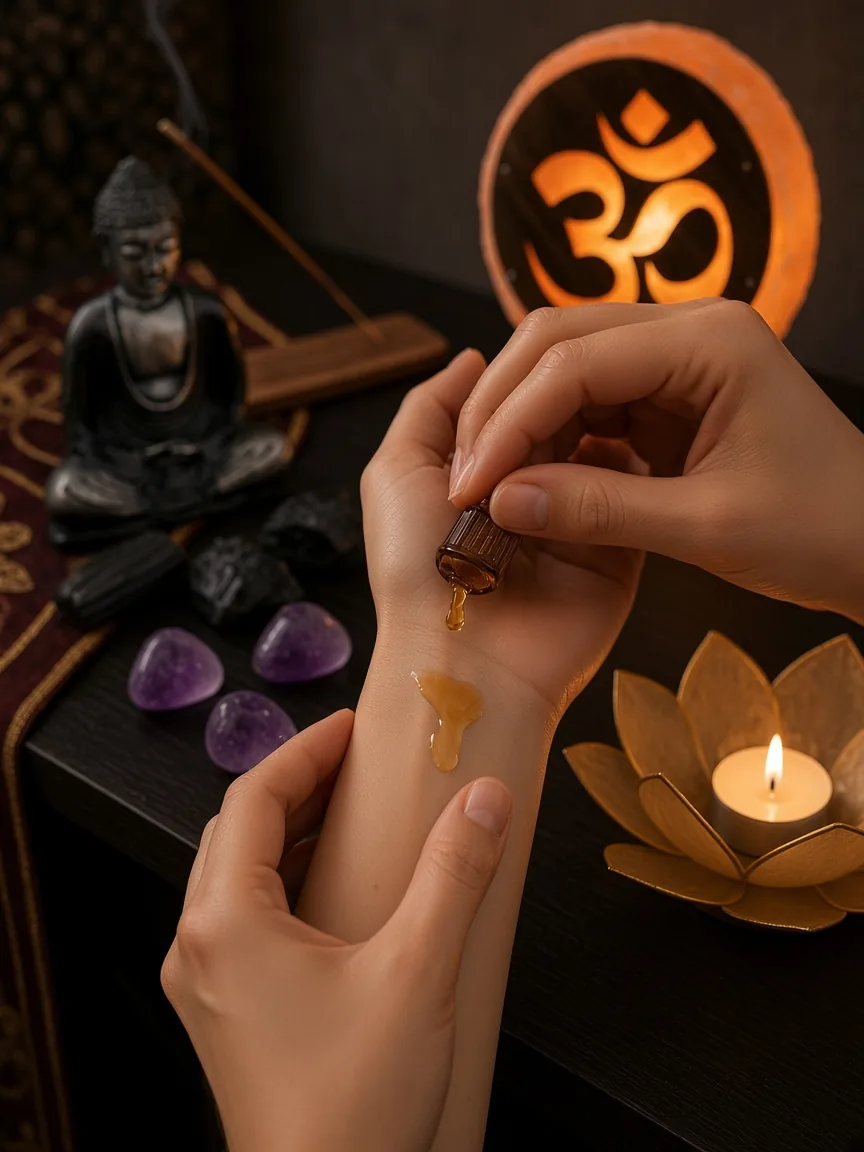
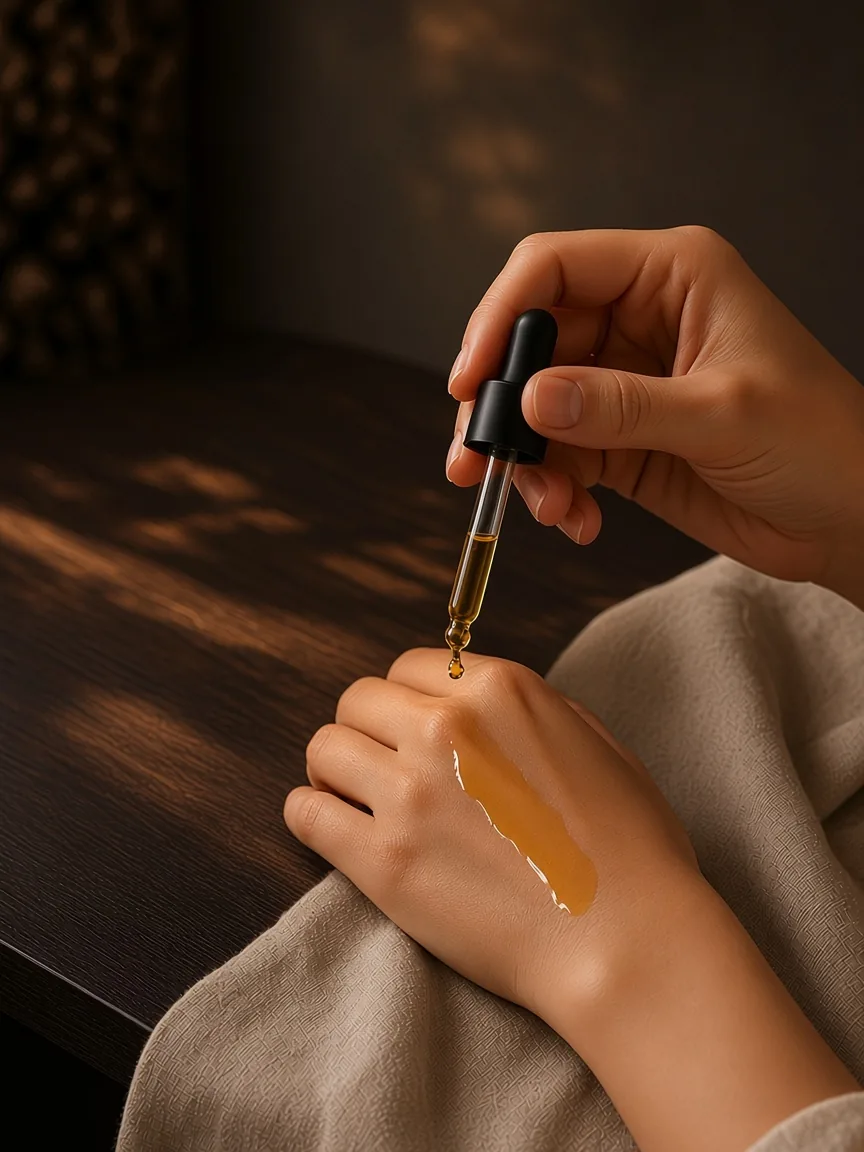
Aggiorna home-officina: nuove scene Olio e Bagno, layout desktop
Corrette le scene d'atmosfera di Olio e Bagno (contagocce plausibile, sali versati da una ciotola, niente oggetti del rituale). Su desktop la sezione è a due colonne; su mobile le card prodotto scorrono in due visibili più una che si intravede.

diff --git a/home-officina/index.html b/home-officina/index.html
@@ -2283,75 +2283,75 @@ Vedi tutto
   <div class="bz-sh">
     <h2 id="officina-title" class="bz-ds-reveal is-in">L'officina del <em>corpo</em></h2>
   </div>
-  <div class="bz-pills" role="tablist" aria-label="Capitoli dell'officina del corpo">
-    <button type="button" role="tab" id="officina-tab-olio" aria-controls="officina-panel" aria-selected="true" tabindex="0">Olio</button>
-    <button type="button" role="tab" id="officina-tab-bagno" aria-controls="officina-panel" aria-selected="false" tabindex="-1">Bagno</button>
-    <button type="button" role="tab" id="officina-tab-candela" aria-controls="officina-panel" aria-selected="false" tabindex="-1">Candela</button>
-    <button type="button" role="tab" id="officina-tab-sapone" aria-controls="officina-panel" aria-selected="false" tabindex="-1">Sapone</button>
-    <button type="button" role="tab" id="officina-tab-tisana" aria-controls="officina-panel" aria-selected="false" tabindex="-1">Tisana</button>
-  </div>
-  <div id="officina-panel" role="tabpanel" aria-labelledby="officina-tab-olio" tabindex="0">
-    <div class="bz-officina-breakout">
+  <div class="bz-officina-layout">
+    <div class="bz-pills" role="tablist" aria-label="Capitoli dell'officina del corpo">
+      <button type="button" role="tab" id="officina-tab-olio" aria-controls="officina-panel" aria-selected="true" tabindex="0">Olio</button>
+      <button type="button" role="tab" id="officina-tab-bagno" aria-controls="officina-panel" aria-selected="false" tabindex="-1">Bagno</button>
+      <button type="button" role="tab" id="officina-tab-candela" aria-controls="officina-panel" aria-selected="false" tabindex="-1">Candela</button>
+      <button type="button" role="tab" id="officina-tab-sapone" aria-controls="officina-panel" aria-selected="false" tabindex="-1">Sapone</button>
+      <button type="button" role="tab" id="officina-tab-tisana" aria-controls="officina-panel" aria-selected="false" tabindex="-1">Tisana</button>
+    </div>
+    <div id="officina-panel" role="tabpanel" aria-labelledby="officina-tab-olio" tabindex="0">
       <figure class="bz-officina-stage">
-        <img class="bz-officina-scene" src="assets/officina-scena-olio.webp" alt="Una mano applica un olio sul polso accanto a una candela" loading="lazy" decoding="async" draggable="false">
+        <img class="bz-officina-scene" src="assets/officina-scena-olio.webp" alt="Un contagocce lascia cadere una goccia d'olio sul dorso di una mano" loading="lazy" decoding="async" draggable="false">
         <figcaption class="bz-officina-cap">
           <h3>Olio</h3>
           <p>Si lascia sui polsi, e resta sulla pelle per tutta la sera.</p>
         </figcaption>
       </figure>
+      <div class="bz-officina-prods">
+        <article class="product bz-product-tile has-nome-vetrina bz-product-tile--vertical">
+          <a class="bz-product-tile__link" href="https://benesserezen.shop/products/olio-profumato-ayurveda-ambra">
+            <div class="bz-product-tile__media">
+              <img src="assets/prod-olio-ambra.webp" alt="Roll-on Ambra" width="600" height="600" loading="lazy" decoding="async">
+            </div>
+            <h3 class="bz-product-tile__title">Roll-on Ambra</h3>
+            <p class="bz-product-tile__sub">profumo ayurvedico</p>
+          </a>
+          <div class="product-bottom bz-product-tile__bottom">
+            <div class="price">16,50&nbsp;€</div>
+            <button class="add" type="button" data-bz-add="54793126642002" aria-label="Aggiungi al carrello: Roll-on Ambra">
+              <svg viewBox="0 -960 960 960" class="" aria-hidden="true" focusable="false" fill="currentColor"><path d="M457.31-457.31H220v-45.38h237.31V-740h45.38v237.31H740v45.38H502.69V-220h-45.38v-237.31Z"></path></svg>
+            </button>
+          </div>
+        </article>
+        <article class="product bz-product-tile has-nome-vetrina bz-product-tile--vertical">
+          <a class="bz-product-tile__link" href="https://benesserezen.shop/products/olio-profumato-ayurveda-vaniglia">
+            <div class="bz-product-tile__media">
+              <img src="assets/prod-olio-vaniglia.webp" alt="Roll-on Vaniglia" width="600" height="600" loading="lazy" decoding="async">
+            </div>
+            <h3 class="bz-product-tile__title">Roll-on Vaniglia</h3>
+            <p class="bz-product-tile__sub">profumo ayurvedico</p>
+          </a>
+          <div class="product-bottom bz-product-tile__bottom">
+            <div class="price">16,50&nbsp;€</div>
+            <button class="add" type="button" data-bz-add="54793125986642" aria-label="Aggiungi al carrello: Roll-on Vaniglia">
+              <svg viewBox="0 -960 960 960" class="" aria-hidden="true" focusable="false" fill="currentColor"><path d="M457.31-457.31H220v-45.38h237.31V-740h45.38v237.31H740v45.38H502.69V-220h-45.38v-237.31Z"></path></svg>
+            </button>
+          </div>
+        </article>
+        <article class="product bz-product-tile has-nome-vetrina bz-product-tile--vertical">
+          <a class="bz-product-tile__link" href="https://benesserezen.shop/products/olio-profumato-naturale-sandalwood-10-ml">
+            <div class="bz-product-tile__media">
+              <img src="assets/prod-olio-sandalo.webp" alt="Roll-on Sandalo" width="600" height="600" loading="lazy" decoding="async">
+            </div>
+            <h3 class="bz-product-tile__title">Roll-on Sandalo</h3>
+            <p class="bz-product-tile__sub">profumo ayurvedico</p>
+          </a>
+          <div class="product-bottom bz-product-tile__bottom">
+            <div class="price">16,50&nbsp;€</div>
+            <button class="add" type="button" data-bz-add="53658083230034" aria-label="Aggiungi al carrello: Roll-on Sandalo">
+              <svg viewBox="0 -960 960 960" class="" aria-hidden="true" focusable="false" fill="currentColor"><path d="M457.31-457.31H220v-45.38h237.31V-740h45.38v237.31H740v45.38H502.69V-220h-45.38v-237.31Z"></path></svg>
+            </button>
+          </div>
+        </article>
+      </div>
     </div>
-    <div class="bz-officina-prods">
-      <article class="product bz-product-tile has-nome-vetrina bz-product-tile--vertical">
-        <a class="bz-product-tile__link" href="https://benesserezen.shop/products/olio-profumato-ayurveda-ambra">
-          <div class="bz-product-tile__media">
-            <img src="assets/prod-olio-ambra.webp" alt="Roll-on Ambra" width="600" height="600" loading="lazy" decoding="async">
-          </div>
-          <h3 class="bz-product-tile__title">Roll-on Ambra</h3>
-          <p class="bz-product-tile__sub">profumo ayurvedico</p>
-        </a>
-        <div class="product-bottom bz-product-tile__bottom">
-          <div class="price">16,50&nbsp;€</div>
-          <button class="add" type="button" data-bz-add="54793126642002" aria-label="Aggiungi al carrello: Roll-on Ambra">
-            <svg viewBox="0 -960 960 960" class="" aria-hidden="true" focusable="false" fill="currentColor"><path d="M457.31-457.31H220v-45.38h237.31V-740h45.38v237.31H740v45.38H502.69V-220h-45.38v-237.31Z"></path></svg>
-          </button>
-        </div>
-      </article>
-      <article class="product bz-product-tile has-nome-vetrina bz-product-tile--vertical">
-        <a class="bz-product-tile__link" href="https://benesserezen.shop/products/olio-profumato-ayurveda-vaniglia">
-          <div class="bz-product-tile__media">
-            <img src="assets/prod-olio-vaniglia.webp" alt="Roll-on Vaniglia" width="600" height="600" loading="lazy" decoding="async">
-          </div>
-          <h3 class="bz-product-tile__title">Roll-on Vaniglia</h3>
-          <p class="bz-product-tile__sub">profumo ayurvedico</p>
-        </a>
-        <div class="product-bottom bz-product-tile__bottom">
-          <div class="price">16,50&nbsp;€</div>
-          <button class="add" type="button" data-bz-add="54793125986642" aria-label="Aggiungi al carrello: Roll-on Vaniglia">
-            <svg viewBox="0 -960 960 960" class="" aria-hidden="true" focusable="false" fill="currentColor"><path d="M457.31-457.31H220v-45.38h237.31V-740h45.38v237.31H740v45.38H502.69V-220h-45.38v-237.31Z"></path></svg>
-          </button>
-        </div>
-      </article>
-      <article class="product bz-product-tile has-nome-vetrina bz-product-tile--vertical">
-        <a class="bz-product-tile__link" href="https://benesserezen.shop/products/olio-profumato-naturale-sandalwood-10-ml">
-          <div class="bz-product-tile__media">
-            <img src="assets/prod-olio-sandalo.webp" alt="Roll-on Sandalo" width="600" height="600" loading="lazy" decoding="async">
-          </div>
-          <h3 class="bz-product-tile__title">Roll-on Sandalo</h3>
-          <p class="bz-product-tile__sub">profumo ayurvedico</p>
-        </a>
-        <div class="product-bottom bz-product-tile__bottom">
-          <div class="price">16,50&nbsp;€</div>
-          <button class="add" type="button" data-bz-add="53658083230034" aria-label="Aggiungi al carrello: Roll-on Sandalo">
-            <svg viewBox="0 -960 960 960" class="" aria-hidden="true" focusable="false" fill="currentColor"><path d="M457.31-457.31H220v-45.38h237.31V-740h45.38v237.31H740v45.38H502.69V-220h-45.38v-237.31Z"></path></svg>
-          </button>
-        </div>
-      </article>
-    </div>
+    <a class="bz-row-link" href="https://benesserezen.shop/collections/ayurveda">
+      Tutta l'Ayurveda
+      <svg viewBox="0 -960 960 960" class="bz-ico bz-ico--sm" aria-hidden="true" focusable="false" fill="currentColor"><path d="M647-440H160v-80h487L423-744l57-56 320 320-320 320-57-56 224-224Z"></path></svg>
+    </a>
   </div>
-  <a class="bz-row-link" href="https://benesserezen.shop/collections/ayurveda">
-    Tutta l'Ayurveda
-    <svg viewBox="0 -960 960 960" class="bz-ico bz-ico--sm" aria-hidden="true" focusable="false" fill="currentColor"><path d="M647-440H160v-80h487L423-744l57-56 320 320-320 320-57-56 224-224Z"></path></svg>
-  </a>
 </section>
 
 </div><div id="shopify-section-template--33797065933138__bz_store" class="shopify-section"><section class="store-bleed" aria-labelledby="store-title">
@@ -2569,7 +2569,7 @@ Orari: lun, mar, mer, ven, sab 9:30–12:30 e 16:00–19:30, gio 9:00–13:00. D
 <script src="assets/estimate-shipping-rate-fd3ec72527.js" defer=""></script><script src="assets/theme-4d12faa507.js" defer=""></script>
     <script src="assets/bz-v411c-027b1b7e30.js" defer=""></script>
     <link href="assets/bz-ds-ba72eb1154.css" rel="stylesheet" type="text/css" media="all">
-    <link href="assets/bz-officina.css?v=2" rel="stylesheet" type="text/css" media="all">
+    <link href="assets/bz-officina.css?v=3" rel="stylesheet" type="text/css" media="all">
     <script src="assets/vendors-7f4ac9fc68.js" defer=""></script>
 
 <script>
@@ -2595,5 +2595,5 @@ document.addEventListener("DOMContentLoaded", function() {
   <style> /* === Homepage: heading unificati come "Cosa ci rende diversi" (no colore) === */:root {--zen-heading-font: "Noto Sans", -apple-system, BlinkMacSystemFont, "Segoe UI", Roboto, Helvetica, Arial, sans-serif; --zen-heading-weight: 500; --zen-heading-lh: 1.2; --zen-heading-mb: 20px;}  /* Scopo solo homepage (Dawn = .template-index; fallback body.index) */.template-index,body.index {}  /* Base: famiglia, peso, interlinea, tracking, margine — colore lasciato ereditare */.template-index :is(h1,h2,h3,.h1,.h2,.h3, .title,.section-title,.page-title, .title-wrapper-with-link .title, .rich-text__heading, .collection-list .title, .multicolumn .title, .testimonials__heading, .zen-quiz-title, /* quiz */ .zen-title /* why-us */) {font-family: var(--zen-heading-font) !important; font-weight: var(--zen-heading-weight) !important; line-height: var(--zen-heading-lh) !important; letter-spacing: normal !important; margin-bottom: var( --zen-heading-mb ); /* NIENTE color qui: ogni sezione mantiene il proprio */}  /* Dimensioni coerenti (stile .zen-why-us .zen-title) */.template-index :is( h1, .h1, .page-title, .title-wrapper-with-link .title, .collection-list .title, .testimonials__heading, .zen-quiz-title, .zen-title ) {font-size: clamp(32px, 5vw, 48px) !important;} .template-index :is(h2, .h2, .section-title) {font-size: clamp(28px, 4.2vw, 40px) !important;} .template-index :is(h3, .h3, .multicolumn .title) {font-size: clamp(22px, 3.2vw, 30px) !important;} #ScrollTop, .scroll-to-top, .scroll-top-btn {display: none !important;} </style>
 <script src="assets/standard-actions-8408a04556.js" type="module" data-source-attribution="shopify.standard_actions"></script>
 
-<div tabindex="-1" aria-hidden="true" id="web-pixels-manager-sandbox-container" data-shopify-privacy="exclude" style="height: 0px !important; width: 0px !important; position: fixed !important; visibility: hidden !important; overflow: hidden !important; z-index: -100 !important; margin: 0px !important; padding: 0px !important; border: 0px !important;"><iframe tabindex="-1" aria-hidden="true" name="web-pixel-sandbox-CUSTOM-shopify-custom-pixel-LAX-15451528w2c618d7fpfa16f52dm59493539" src="assets/file-f0b10ff5f6.bin" id="web-pixel-sandbox-CUSTOM-shopify-custom-pixel-LAX-15451528w2c618d7fpfa16f52dm59493539" sandbox="allow-scripts allow-forms" style="height: 0px !important; width: 0px !important; visibility: hidden !important;"></iframe></div><script src="https://www.googletagmanager.com/gtag/js?id=G-8ZS80B113S"></script><script src="https://www.googletagmanager.com/gtag/js?id=GT-PZ6GLK33"></script><div id="PBarNextFrameWrapper" popover="manual" style="height: calc(68px + env(safe-area-inset-bottom, 0)); position: fixed; box-sizing: border-box; overflow: hidden; margin: 0px; background-color: transparent !important;"><iframe id="PBarNextFrame" src="assets/index-928ab2e716.bin" sandbox="allow-same-origin allow-popups allow-popups-to-escape-sandbox allow-top-navigation allow-scripts allow-forms" style="width: 100%; height: 100dvh; border-width: medium; border-style: none; border-color: currentcolor; border-image: none; position: absolute; bottom: 0px; left: 0px;"></iframe></div>    <script src="assets/bz-officina.js?v=2" defer></script>
+<div tabindex="-1" aria-hidden="true" id="web-pixels-manager-sandbox-container" data-shopify-privacy="exclude" style="height: 0px !important; width: 0px !important; position: fixed !important; visibility: hidden !important; overflow: hidden !important; z-index: -100 !important; margin: 0px !important; padding: 0px !important; border: 0px !important;"><iframe tabindex="-1" aria-hidden="true" name="web-pixel-sandbox-CUSTOM-shopify-custom-pixel-LAX-15451528w2c618d7fpfa16f52dm59493539" src="assets/file-f0b10ff5f6.bin" id="web-pixel-sandbox-CUSTOM-shopify-custom-pixel-LAX-15451528w2c618d7fpfa16f52dm59493539" sandbox="allow-scripts allow-forms" style="height: 0px !important; width: 0px !important; visibility: hidden !important;"></iframe></div><script src="https://www.googletagmanager.com/gtag/js?id=G-8ZS80B113S"></script><script src="https://www.googletagmanager.com/gtag/js?id=GT-PZ6GLK33"></script><div id="PBarNextFrameWrapper" popover="manual" style="height: calc(68px + env(safe-area-inset-bottom, 0)); position: fixed; box-sizing: border-box; overflow: hidden; margin: 0px; background-color: transparent !important;"><iframe id="PBarNextFrame" src="assets/index-928ab2e716.bin" sandbox="allow-same-origin allow-popups allow-popups-to-escape-sandbox allow-top-navigation allow-scripts allow-forms" style="width: 100%; height: 100dvh; border-width: medium; border-style: none; border-color: currentcolor; border-image: none; position: absolute; bottom: 0px; left: 0px;"></iframe></div>    <script src="assets/bz-officina.js?v=3" defer></script>
 </body></html>

diff --git a/home-officina/assets/bz-officina.css b/home-officina/assets/bz-officina.css
@@ -4,7 +4,6 @@
   isolation: isolate;
   background: var(--bz-bg);
   color: var(--bz-text);
-  touch-action: pan-y;
 }
 
 .bz-officina-veil {
@@ -30,14 +29,6 @@ html .bz-scope .bz-officina .bz-pills {
 
 html .bz-scope .bz-officina .bz-pills > button {
   padding-inline: clamp(8px, 2.4vw, 18px);
-}
-
-.bz-officina-breakout {
-  width: 100vw;
-  max-width: 100vw;
-  margin-left: calc(50% - 50vw);
-  padding-inline: var(--bz-margin);
-  box-sizing: border-box;
 }
 
 .bz-officina-stage {
@@ -88,10 +79,81 @@ html .bz-scope .bz-officina-cap p {
 }
 
 .bz-officina-prods {
-  display: grid;
-  grid-template-columns: repeat(3, minmax(0, 1fr));
-  gap: var(--bz-grid-gap, 12px);
+  display: flex;
+  gap: 12px;
+  overflow-x: auto;
+  scroll-snap-type: x mandatory;
+  scrollbar-width: none;
   margin-top: var(--bz-sp-20, 20px);
+}
+
+@media (width < 1024px) {
+  .bz-officina-prods {
+    margin-inline: -4px calc(-1 * var(--bz-margin));
+    padding: 4px var(--bz-margin) 4px 4px;
+    scroll-padding-inline: 4px var(--bz-margin);
+  }
+
+  .bz-officina-prods > .bz-product-tile {
+    flex: 0 0 44%;
+    min-width: 0;
+    scroll-snap-align: start;
+  }
+
+  .bz-officina-prods > .bz-product-tile:last-child {
+    scroll-snap-align: end;
+  }
+}
+
+@media (min-width: 1024px) {
+  .bz-officina-layout {
+    display: grid;
+    grid-template-columns: minmax(0, 46fr) minmax(0, 54fr);
+    gap: var(--bz-sp-24) var(--bz-sp-32);
+  }
+
+  /* Share the grid while keeping the tablist outside its tabpanel. */
+  .bz-officina-layout > [role="tabpanel"] {
+    display: grid;
+    grid-area: 1 / 1 / 4 / 3;
+    grid-template-columns: subgrid;
+    grid-template-rows: subgrid;
+  }
+
+  .bz-officina-stage {
+    grid-area: 1 / 1 / 4 / 2;
+    height: auto;
+  }
+
+  .bz-officina-stage > .bz-officina-scene {
+    position: absolute;
+    inset: 0;
+  }
+
+  html .bz-scope .bz-officina .bz-pills {
+    grid-area: 1 / 2;
+    z-index: 1;
+    margin-block: 0;
+  }
+
+  html .bz-scope .bz-officina .bz-pills > button {
+    padding-inline: clamp(8px, 1vw, 18px);
+  }
+
+  .bz-officina-prods {
+    display: grid;
+    grid-area: 2 / 2;
+    grid-template-columns: repeat(3, minmax(0, 1fr));
+    gap: var(--bz-grid-gap, 12px);
+    margin: 0;
+    overflow: visible;
+  }
+
+  html .bz-scope .bz-officina .bz-row-link {
+    grid-area: 3 / 2;
+    z-index: 1;
+    margin: 0;
+  }
 }
 
 html .bz-scope .bz-officina .bz-product-tile .bz-product-tile__bottom {

diff --git a/home-officina/assets/bz-officina.js b/home-officina/assets/bz-officina.js
@@ -8,7 +8,7 @@
       caption: "Si lascia sui polsi, e resta sulla pelle per tutta la sera.",
       veil: "#3a281c",
       scene: "assets/officina-scena-olio.webp",
-      alt: "Una mano applica un olio sul polso accanto a una candela",
+      alt: "Un contagocce lascia cadere una goccia d'olio sul dorso di una mano",
       products: [
         ["Roll-on Ambra", "profumo ayurvedico", "16,50", "olio-profumato-ayurveda-ambra", "54793126642002", "assets/prod-olio-ambra.webp"],
         ["Roll-on Vaniglia", "profumo ayurvedico", "16,50", "olio-profumato-ayurveda-vaniglia", "54793125986642", "assets/prod-olio-vaniglia.webp"],
@@ -20,7 +20,7 @@
       caption: "I sali si sciolgono nell'acqua calda, quando si chiude la porta.",
       veil: "#1e272c",
       scene: "assets/officina-scena-bagno.webp",
-      alt: "Sali versati in una vasca da bagno scura",
+      alt: "Una mano versa i sali da una ciotola nell'acqua di una vasca di pietra",
       products: [
         ["Sali alla lavanda", "himalayani, 500 g", "9,90", "mix-sali-himalayani-500g-relax", "50354138251602", "assets/prod-bagno-lavanda.webp"],
         ["Sali tea tree e lime", "himalayani, 500 g", "9,90", "mix-sali-himalayani-500g-detox", "50354146017618", "assets/prod-bagno-teatree.webp"],
@@ -143,6 +143,7 @@
     heading.textContent = chapter.title;
     caption.textContent = chapter.caption;
     products.innerHTML = chapter.products.map(productCard).join('');
+    products.scrollLeft = 0;
     changeScene(chapter);
   }
 
